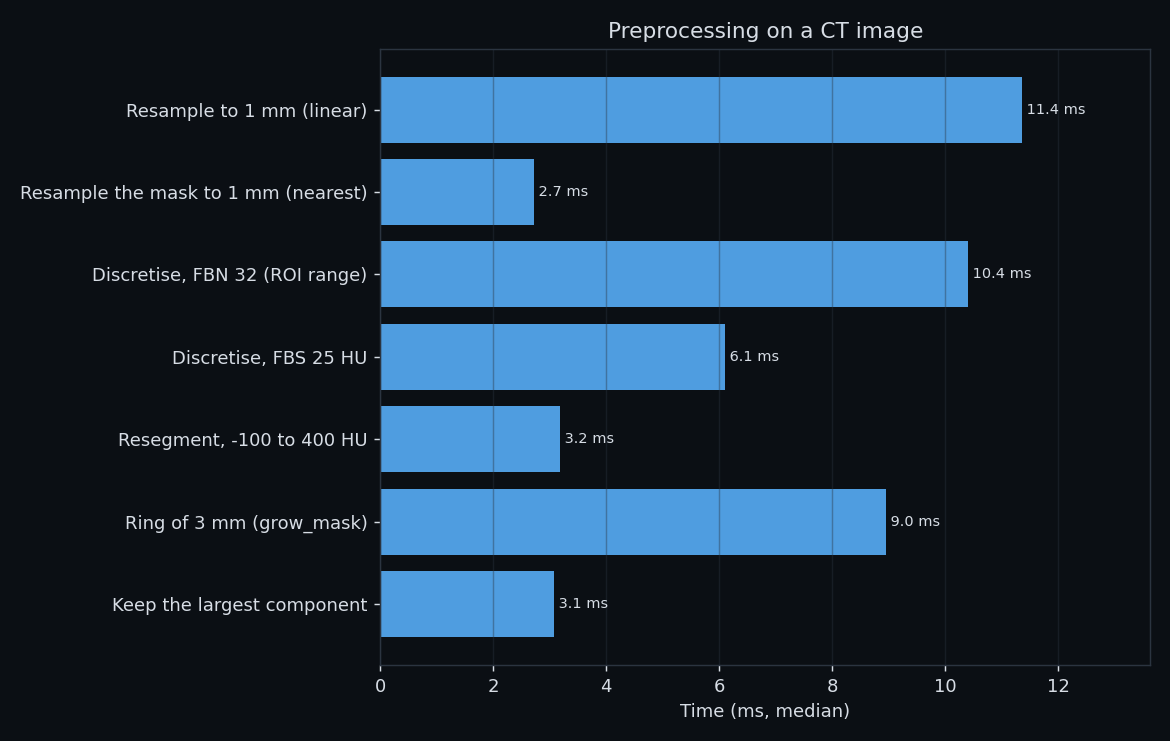
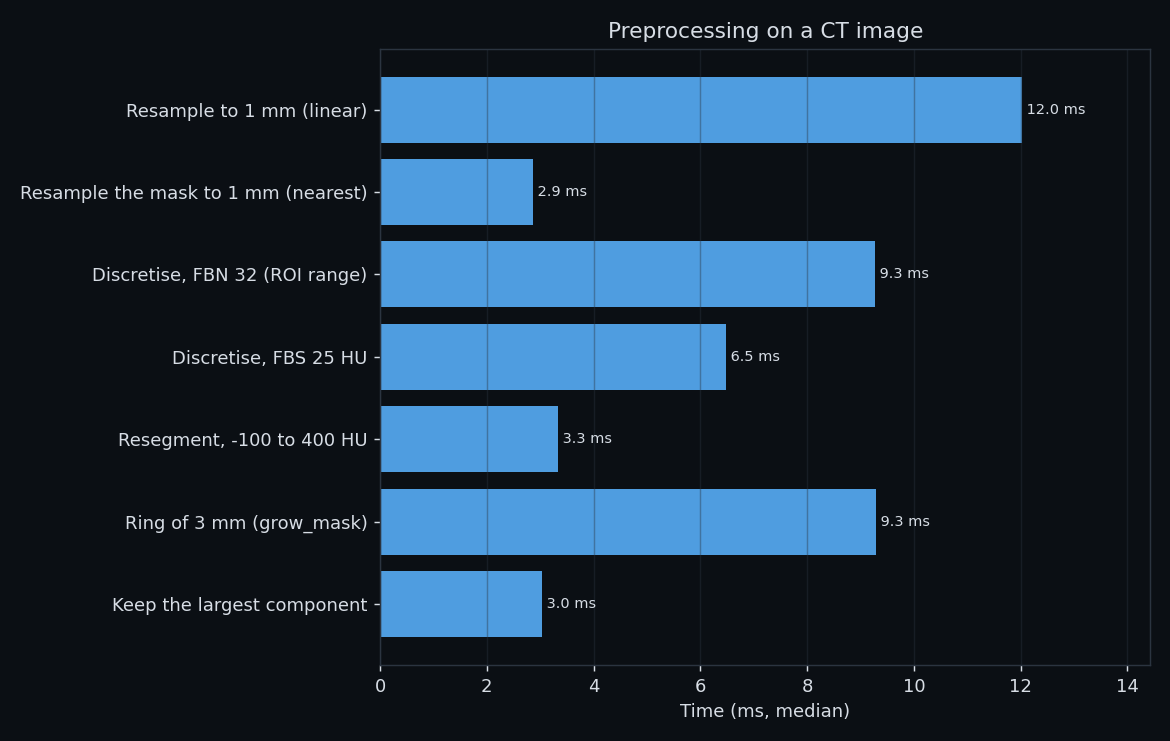
docs: Refresh the speed page of 0.7.1

diff --git a/docs/benchmarks.md b/docs/benchmarks.md
@@ -27,13 +27,13 @@ ROI cubes: 25³ (9,861 ROI voxels), 50³ (101,638 ROI voxels), 75³ (315,151 ROI
 
 | Task | 25³ | 50³ | 75³ | 100³ | 150³ |
 |:--|--:|--:|--:|--:|--:|
-| Intensity (first order) | 0.1 ms | 0.2 ms | 0.7 ms | 1.7 ms | 3.6 ms |
-| Intensity histogram | 0.1 ms | 1.4 ms | 3.5 ms | 7.8 ms | 21.5 ms |
-| Intensity-volume histogram | 0.1 ms | 0.7 ms | 1.9 ms | 5.3 ms | 14.5 ms |
-| Morphology | 0.6 ms | 1.8 ms | 2.8 ms | 4.4 ms | 9.9 ms |
-| Local intensity (peaks) | 1.3 ms | 3.2 ms | 9.4 ms | 23.4 ms | 71.0 ms |
-| Spatial intensity (Moran's I, Geary's C) | 1.5 ms | 8.3 ms | 24.3 ms | 58.3 ms | 179.7 ms |
-| Texture (all 6 families) | 1.0 ms | 2.6 ms | 5.4 ms | 9.8 ms | 27.1 ms |
+| Intensity (first order) | 0.0 ms | 0.2 ms | 0.7 ms | 1.7 ms | 3.7 ms |
+| Intensity histogram | 0.1 ms | 1.4 ms | 3.5 ms | 8.1 ms | 21.9 ms |
+| Intensity-volume histogram | 0.1 ms | 0.7 ms | 1.9 ms | 5.3 ms | 14.0 ms |
+| Morphology | 0.6 ms | 1.7 ms | 2.9 ms | 4.4 ms | 9.6 ms |
+| Local intensity (peaks) | 1.4 ms | 3.2 ms | 9.7 ms | 24.3 ms | 66.1 ms |
+| Spatial intensity (Moran's I, Geary's C) | 1.9 ms | 8.0 ms | 23.9 ms | 58.8 ms | 189.0 ms |
+| Texture (all 6 families) | 1.1 ms | 2.5 ms | 5.3 ms | 10.2 ms | 27.4 ms |
 
 ### Texture Families
 
@@ -43,12 +43,12 @@ Each family on its own (`calculate_all_texture_features(..., families=[...])`), 
 
 | Task | 25³ | 50³ | 75³ | 100³ | 150³ |
 |:--|--:|--:|--:|--:|--:|
-| GLCM | 0.3 ms | 0.8 ms | 1.2 ms | 2.1 ms | 5.4 ms |
-| GLRLM | 0.3 ms | 0.8 ms | 1.7 ms | 3.6 ms | 10.3 ms |
-| GLSZM | 0.3 ms | 1.0 ms | 1.8 ms | 3.4 ms | 9.7 ms |
-| GLDZM | 0.3 ms | 1.3 ms | 2.3 ms | 4.9 ms | 10.7 ms |
-| NGTDM | 0.2 ms | 0.4 ms | 0.7 ms | 0.9 ms | 2.2 ms |
-| NGLDM | 0.3 ms | 0.4 ms | 0.6 ms | 0.9 ms | 2.3 ms |
+| GLCM | 0.3 ms | 0.6 ms | 1.3 ms | 2.2 ms | 5.9 ms |
+| GLRLM | 0.3 ms | 0.8 ms | 1.8 ms | 3.9 ms | 10.8 ms |
+| GLSZM | 0.3 ms | 1.0 ms | 1.9 ms | 3.5 ms | 9.2 ms |
+| GLDZM | 0.3 ms | 1.4 ms | 2.4 ms | 4.4 ms | 11.4 ms |
+| NGTDM | 0.3 ms | 0.4 ms | 0.7 ms | 1.1 ms | 2.4 ms |
+| NGLDM | 0.3 ms | 0.5 ms | 0.6 ms | 0.9 ms | 2.6 ms |
 
 ### Texture and Grey Levels
 
@@ -58,7 +58,7 @@ All six texture families on the 75³ cube (315,151 ROI voxels) with FBN discreti
 
 | Task | 8 levels | 16 levels | 32 levels | 64 levels | 128 levels | 256 levels |
 |:--|--:|--:|--:|--:|--:|--:|
-| Texture (all 6 families) | 5.5 ms | 5.3 ms | 4.7 ms | 4.7 ms | 5.2 ms | 6.2 ms |
+| Texture (all 6 families) | 6.0 ms | 5.5 ms | 5.2 ms | 5.1 ms | 5.5 ms | 6.9 ms |
 
 ### Filters
 
@@ -70,19 +70,19 @@ Image cubes of 1 mm voxels. Convolution filters use the mirror boundary; the FFT
 
 | Task | 64³ | 128³ | 192³ | 256³ |
 |:--|--:|--:|--:|--:|
-| Mean (support 5) | 0.9 ms | 3.4 ms | 10.9 ms | 26.2 ms |
-| Gaussian (sigma 2 mm) | 1.3 ms | 5.0 ms | 16.3 ms | 36.6 ms |
-| LoG (sigma 2 mm) | 1.8 ms | 6.7 ms | 21.2 ms | 49.6 ms |
-| Laws L5E5E5 with energy | 2.1 ms | 6.6 ms | 21.9 ms | 50.6 ms |
-| Laws L5E5E5, rotation invariant, energy | 3.0 ms | 14.9 ms | 45.5 ms | 119.2 ms |
-| Gabor (axial, rotation invariant) | 2.7 ms | 7.6 ms | 23.5 ms | 46.7 ms |
-| Gabor (3 planes, rotation invariant) | 8.8 ms | 25.0 ms | 68.9 ms | 143.5 ms |
-| Wavelet db2 LHL, level 1 | 1.0 ms | 3.7 ms | 10.6 ms | 27.4 ms |
-| Wavelet db2 LHL, level 1, rotation invariant | 9.8 ms | 73.1 ms | 234.6 ms | 298.3 ms |
-| Simoncelli, level 1 | 1.0 ms | 4.0 ms | 12.0 ms | 30.8 ms |
-| Riesz, order (1, 0, 0) | 1.0 ms | 4.1 ms | 11.7 ms | 32.1 ms |
-| Riesz-LoG (sigma 2 mm) | 3.2 ms | 10.8 ms | 32.1 ms | 76.7 ms |
-| Riesz-Simoncelli, level 1 | 1.2 ms | 4.1 ms | 12.3 ms | 31.0 ms |
+| Mean (support 5) | 1.0 ms | 4.1 ms | 12.2 ms | 27.3 ms |
+| Gaussian (sigma 2 mm) | 1.5 ms | 5.5 ms | 15.6 ms | 37.7 ms |
+| LoG (sigma 2 mm) | 1.9 ms | 7.2 ms | 20.9 ms | 50.3 ms |
+| Laws L5E5E5 with energy | 2.5 ms | 7.6 ms | 21.1 ms | 54.2 ms |
+| Laws L5E5E5, rotation invariant, energy | 3.6 ms | 16.1 ms | 46.3 ms | 119.9 ms |
+| Gabor (axial, rotation invariant) | 2.9 ms | 8.1 ms | 24.5 ms | 48.3 ms |
+| Gabor (3 planes, rotation invariant) | 9.2 ms | 26.2 ms | 71.0 ms | 150.2 ms |
+| Wavelet db2 LHL, level 1 | 1.3 ms | 4.1 ms | 11.6 ms | 28.2 ms |
+| Wavelet db2 LHL, level 1, rotation invariant | 10.8 ms | 75.6 ms | 234.4 ms | 324.4 ms |
+| Simoncelli, level 1 | 0.9 ms | 4.2 ms | 12.1 ms | 29.5 ms |
+| Riesz, order (1, 0, 0) | 0.9 ms | 4.0 ms | 12.4 ms | 30.7 ms |
+| Riesz-LoG (sigma 2 mm) | 2.9 ms | 11.1 ms | 33.1 ms | 75.4 ms |
+| Riesz-Simoncelli, level 1 | 1.0 ms | 4.7 ms | 13.3 ms | 32.5 ms |
 
 ### Preprocessing
 
@@ -92,13 +92,13 @@ The functions of `pictologics.preprocessing` on the CT-like image.
 
 | Task | Time (median) | Fastest | Slowest |
 |:--|--:|--:|--:|
-| Resample to 1 mm (linear) | 11.4 ms | 11.3 ms | 15.8 ms |
-| Resample the mask to 1 mm (nearest) | 2.7 ms | 2.7 ms | 3.9 ms |
-| Discretise, FBN 32 (ROI range) | 10.4 ms | 8.8 ms | 11.3 ms |
-| Discretise, FBS 25 HU | 6.1 ms | 6.1 ms | 7.3 ms |
-| Resegment, -100 to 400 HU | 3.2 ms | 3.1 ms | 3.3 ms |
-| Ring of 3 mm (grow_mask) | 9.0 ms | 8.9 ms | 9.3 ms |
-| Keep the largest component | 3.1 ms | 2.8 ms | 3.8 ms |
+| Resample to 1 mm (linear) | 12.0 ms | 11.8 ms | 12.1 ms |
+| Resample the mask to 1 mm (nearest) | 2.9 ms | 2.7 ms | 3.1 ms |
+| Discretise, FBN 32 (ROI range) | 9.3 ms | 9.2 ms | 9.6 ms |
+| Discretise, FBS 25 HU | 6.5 ms | 6.3 ms | 6.6 ms |
+| Resegment, -100 to 400 HU | 3.3 ms | 3.2 ms | 3.5 ms |
+| Ring of 3 mm (grow_mask) | 9.3 ms | 9.0 ms | 9.7 ms |
+| Keep the largest component | 3.0 ms | 2.9 ms | 3.4 ms |
 
 ### Pipeline
 
@@ -108,10 +108,10 @@ Whole pipeline runs on the CT-like image, from the image in memory to the featur
 
 | Task | Time (median) | Fastest | Slowest |
 |:--|--:|--:|--:|
-| run(): one standard configuration (standard_fbn_32) | 11.3 ms | 10.8 ms | 11.4 ms |
-| run(): the 6 standard configurations | 43.4 ms | 42.8 ms | 44.3 ms |
-| run(): resample to 1 mm, LoG, intensity | 29.6 ms | 29.0 ms | 33.0 ms |
-| run_rois(): 20 ROIs, intensity and morphology at 1 mm | 17.6 ms | 17.3 ms | 18.2 ms |
+| run(): one standard configuration (standard_fbn_32) | 11.7 ms | 11.2 ms | 12.6 ms |
+| run(): the 6 standard configurations | 44.5 ms | 43.2 ms | 45.1 ms |
+| run(): resample to 1 mm, LoG, intensity | 31.5 ms | 31.2 ms | 31.9 ms |
+| run_rois(): 20 ROIs, intensity and morphology at 1 mm | 19.1 ms | 18.3 ms | 19.6 ms |
 
 ### Threads
 
@@ -121,11 +121,11 @@ Whole pipeline runs on the CT-like image, from the image in memory to the featur
 
 | Task | Time (median) | Fastest | Slowest |
 |:--|--:|--:|--:|
-| 1 thread | 27.6 ms | 27.4 ms | 28.1 ms |
-| 2 threads | 17.9 ms | 17.5 ms | 18.1 ms |
-| 4 threads | 12.9 ms | 12.3 ms | 13.2 ms |
-| 8 threads | 10.3 ms | 10.1 ms | 10.9 ms |
-| 10 threads | 10.5 ms | 10.1 ms | 11.3 ms |
+| 1 thread | 28.3 ms | 27.8 ms | 28.6 ms |
+| 2 threads | 18.7 ms | 18.3 ms | 19.9 ms |
+| 4 threads | 13.7 ms | 13.0 ms | 14.2 ms |
+| 8 threads | 11.4 ms | 11.2 ms | 12.1 ms |
+| 10 threads | 11.2 ms | 10.6 ms | 11.4 ms |
 
 ### Loading
 
@@ -135,6 +135,6 @@ Whole pipeline runs on the CT-like image, from the image in memory to the featur
 
 | Task | Time (median) | Fastest | Slowest |
 |:--|--:|--:|--:|
-| NIfTI, gzip (.nii.gz) | 172.6 ms | 171.6 ms | 175.1 ms |
-| NIfTI (.nii) | 17.3 ms | 17.0 ms | 28.8 ms |
-| DICOM series (200 files) | 76.5 ms | 76.0 ms | 77.2 ms |
+| NIfTI, gzip (.nii.gz) | 175.1 ms | 173.4 ms | 178.3 ms |
+| NIfTI (.nii) | 17.9 ms | 17.6 ms | 29.9 ms |
+| DICOM series (200 files) | 81.8 ms | 79.1 ms | 288.9 ms |

diff --git a/README.md b/README.md
@@ -85,12 +85,12 @@ For MR or PET images, use the FBN configurations (`config_names=["standard_fbn_3
 
 | Task | Size | Time (median) |
 |:--|:--|--:|
-| run(): one standard configuration (standard_fbn_32) | CT of 512 × 512 × 200 | 11.3 ms |
-| run(): the 6 standard configurations | CT of 512 × 512 × 200 | 43.4 ms |
-| Texture (all 6 families) | 2,311,384 ROI voxels | 27.1 ms |
-| Morphology | 2,311,384 ROI voxels | 9.9 ms |
-| LoG (sigma 2 mm) | 256³ voxels | 49.6 ms |
-| Gabor (axial, rotation invariant) | 256³ voxels | 46.7 ms |
+| run(): one standard configuration (standard_fbn_32) | CT of 512 × 512 × 200 | 11.7 ms |
+| run(): the 6 standard configurations | CT of 512 × 512 × 200 | 44.5 ms |
+| Texture (all 6 families) | 2,311,384 ROI voxels | 27.4 ms |
+| Morphology | 2,311,384 ROI voxels | 9.6 ms |
+| LoG (sigma 2 mm) | 256³ voxels | 50.3 ms |
+| Gabor (axial, rotation invariant) | 256³ voxels | 48.3 ms |
 
 The median of 5 runs on one computer, after a warm-up run. See the [benchmark page](https://martonkolossvary.github.io/pictologics/benchmarks/) for all results, plots and the computer.
 
